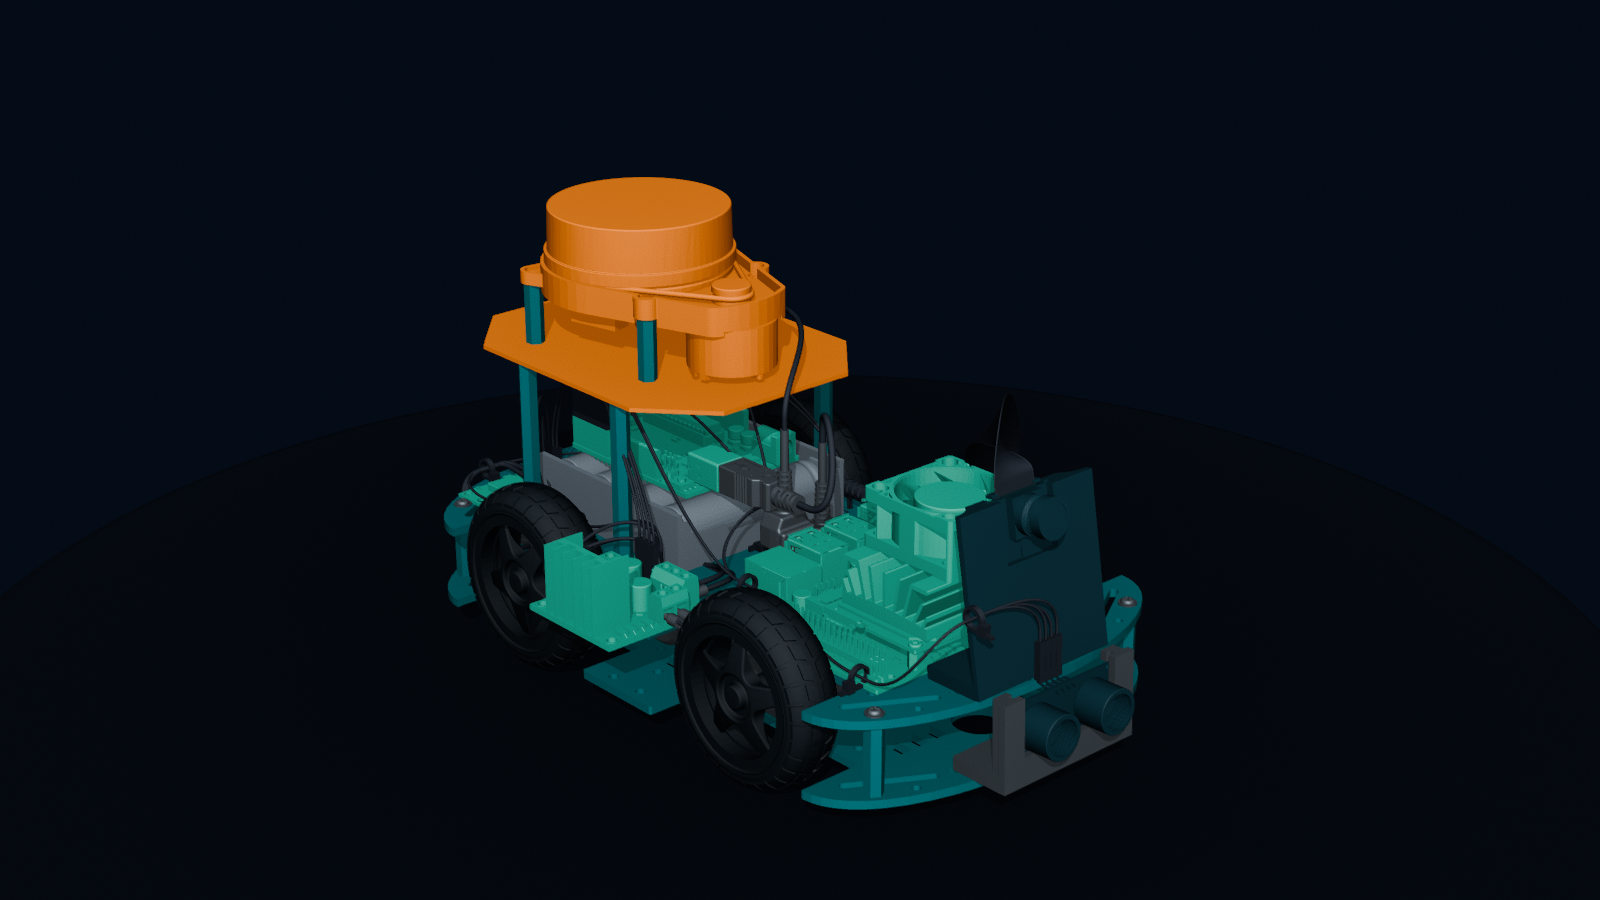
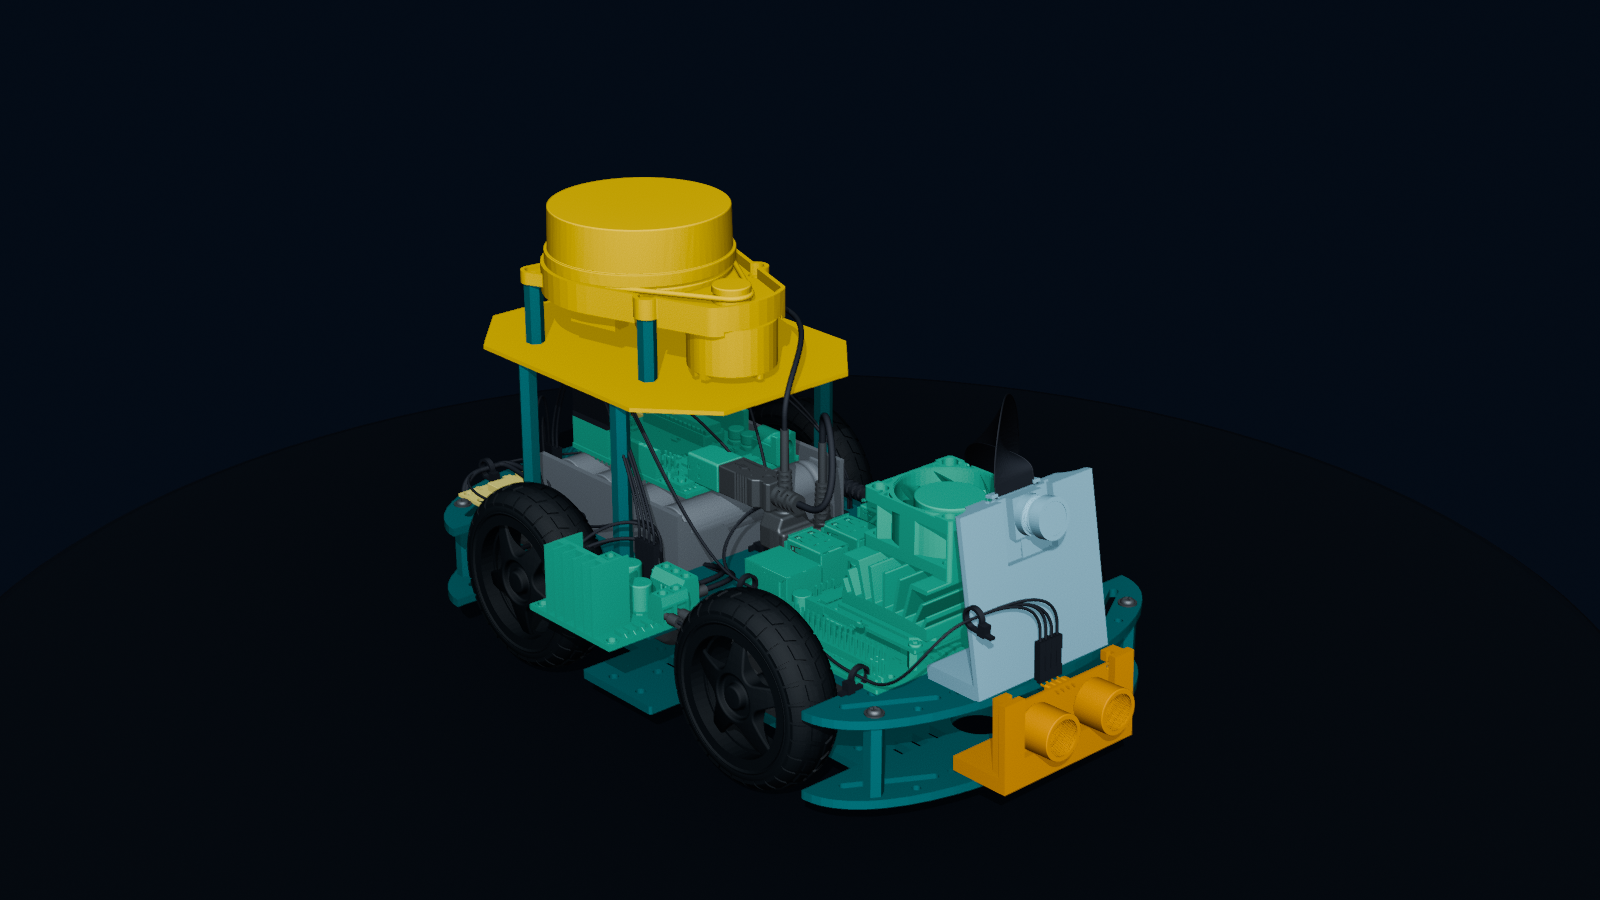
feat: add distinct sensor visual palette

Changed region(s): [[0.2812, 0.1867, 0.5312, 0.4667], [0.5625, 0.4978, 0.7188, 0.9022], [0.2812, 0.5289, 0.3438, 0.56]]

diff --git a/ros1_ws/tools/static_check.py b/ros1_ws/tools/static_check.py
@@ -180,6 +180,114 @@ def validate_canonical_defaults():
         fail("PONG must never open the motion gate")
 
 
+def validate_sensor_visual_palette():
+    expected = {
+        "lidar_link": (
+            "sensor_lidar_orange",
+            "0.902 0.624 0.000 1.0",
+            "Wildebeest/SensorLidarOrange",
+            "| Orange `#E69F00` | 2D LiDAR | `lidar_link` |",
+        ),
+        "camera_link": (
+            "sensor_camera_sky_blue",
+            "0.337 0.706 0.914 1.0",
+            "Wildebeest/SensorCameraSkyBlue",
+            "| Sky blue `#56B4E9` | IMX219 camera | `camera_link` (`camera_optical_frame` is axis-only) |",
+        ),
+        "imu_link": (
+            "sensor_imu_rose",
+            "0.800 0.475 0.655 1.0",
+            "Wildebeest/SensorImuRose",
+            "| Rose `#CC79A7` | MPU6050 IMU | `imu_link` |",
+        ),
+        "gps_link": (
+            "sensor_gnss_yellow",
+            "0.941 0.894 0.259 1.0",
+            "Wildebeest/SensorGnssYellow",
+            "| Yellow `#F0E442` | GNSS receiver | `gps_link` |",
+        ),
+        "ultrasonic_front_link": (
+            "sensor_ultrasonic_vermillion",
+            "0.835 0.369 0.000 1.0",
+            "Wildebeest/SensorUltrasonicVermillion",
+            "| Vermillion `#D55E00` | Front HC-SR04 ultrasonic sensor | `ultrasonic_front_link` |",
+        ),
+    }
+
+    materials_root = ET.parse(
+        str(SOURCE / "wildebeest_description/urdf/materials.xacro")
+    ).getroot()
+    material_colors = {}
+    for material in materials_root.findall("material"):
+        color = material.find("color")
+        if color is not None:
+            material_colors[material.attrib["name"]] = color.attrib.get("rgba")
+
+    sensor_colors = []
+    for material_name, rgba, _, _ in expected.values():
+        if material_colors.get(material_name) != rgba:
+            fail("{} must define sensor color {}".format(material_name, rgba))
+        sensor_colors.append(rgba)
+    if len(sensor_colors) != len(set(sensor_colors)):
+        fail("sensor identification colors must be unique")
+
+    urdf_root = ET.parse(
+        str(SOURCE / "wildebeest_description/urdf/wildebeest.urdf.xacro")
+    ).getroot()
+    urdf_links = {link.attrib.get("name"): link for link in urdf_root.findall("link")}
+    for link_name, (material_name, _, _, _) in expected.items():
+        link = urdf_links.get("${prefix}" + link_name)
+        material = None if link is None else link.find("visual/material")
+        if material is None or material.attrib.get("name") != material_name:
+            fail("{} must use {}".format(link_name, material_name))
+
+    gazebo_root = ET.parse(
+        str(SOURCE / "wildebeest_description/urdf/wildebeest.gazebo.xacro")
+    ).getroot()
+    gazebo_materials = {}
+    for gazebo in gazebo_root.iter("gazebo"):
+        reference = gazebo.attrib.get("reference")
+        material = gazebo.find("material")
+        if reference and material is not None:
+            gazebo_materials[reference] = (material.text or "").strip()
+    for link_name, (_, _, gazebo_material, _) in expected.items():
+        if gazebo_materials.get("${prefix}" + link_name) != gazebo_material:
+            fail("Gazebo {} must use {}".format(link_name, gazebo_material))
+
+    classic_materials = (
+        SOURCE
+        / "wildebeest_description/media/materials/scripts/wildebeest.material"
+    ).read_text(encoding="utf-8")
+    for link_name, (_, rgba, gazebo_material, _) in expected.items():
+        material_match = re.search(
+            r"material\s+{}\s*\{{(.*?)\n\}}".format(re.escape(gazebo_material)),
+            classic_materials,
+            re.DOTALL,
+        )
+        if material_match is None:
+            fail("Gazebo material script is missing {}".format(gazebo_material))
+        body = material_match.group(1)
+        if "ambient " + rgba not in body or "diffuse " + rgba not in body:
+            fail("Gazebo {} does not match the URDF RGBA".format(link_name))
+
+    description_manifest = ET.parse(
+        str(SOURCE / "wildebeest_description/package.xml")
+    ).getroot()
+    media_export = description_manifest.find("./export/gazebo_ros")
+    if media_export is None or media_export.attrib.get("gazebo_media_path") != "${prefix}":
+        fail("wildebeest_description must export its Gazebo media path")
+    description_cmake = (
+        SOURCE / "wildebeest_description/CMakeLists.txt"
+    ).read_text(encoding="utf-8")
+    if "install(DIRECTORY launch media rviz urdf" not in description_cmake:
+        fail("wildebeest_description must install its Gazebo material media")
+
+    workspace_readme = (WORKSPACE / "README.md").read_text(encoding="utf-8")
+    for link_name, (_, _, _, documented_row) in expected.items():
+        if documented_row not in workspace_readme:
+            fail("sensor legend is missing {}".format(link_name))
+
+
 def validate_wheel_joint_parity():
     urdf = (SOURCE / "wildebeest_description/urdf/wildebeest.urdf.xacro").read_text(
         encoding="utf-8"
@@ -250,6 +358,7 @@ def main():
     reference_count = validate_local_find_references(packages)
     validate_demo_map()
     validate_canonical_defaults()
+    validate_sensor_visual_palette()
     validate_wheel_joint_parity()
     python_count = validate_python_syntax()
     print(

diff --git a/ros2_ws/scripts/validate_workspace.py b/ros2_ws/scripts/validate_workspace.py
@@ -90,6 +90,82 @@ def validate_map(errors):
         errors.append('example map contains an out-of-range pixel')
 
 
+def validate_sensor_materials(errors):
+    """Keep sensor visuals distinct without decorating collision geometry."""
+
+    material_path = (
+        SOURCE / 'wildebeest_description' / 'urdf' / 'materials.xacro'
+    )
+    urdf_path = (
+        SOURCE / 'wildebeest_description' / 'urdf' / 'wildebeest.urdf.xacro'
+    )
+    expected = {
+        '${prefix}lidar_link': (
+            'wildebeest_sensor_lidar_orange', '0.902 0.624 0.000 1.0'
+        ),
+        '${prefix}imu_link': (
+            'wildebeest_sensor_imu_rose', '0.800 0.475 0.655 1.0'
+        ),
+        '${prefix}gps_link': (
+            'wildebeest_sensor_gnss_yellow', '0.941 0.894 0.259 1.0'
+        ),
+        '${prefix}camera_link': (
+            'wildebeest_sensor_camera_sky', '0.337 0.706 0.914 1.0'
+        ),
+        '${prefix}ultrasonic_front_link': (
+            'wildebeest_sensor_ultrasonic_vermillion',
+            '0.835 0.369 0.000 1.0',
+        ),
+    }
+
+    material_root = ET.parse(material_path).getroot()
+    definitions = {
+        element.get('name'): element.find('color').get('rgba')
+        for element in material_root.findall('material')
+        if element.get('name') and element.find('color') is not None
+    }
+    urdf_root = ET.parse(urdf_path).getroot()
+    links = {element.get('name'): element for element in urdf_root.findall('link')}
+    sensor_materials = {material for material, _ in expected.values()}
+
+    for link_name, (material_name, rgba) in expected.items():
+        link = links.get(link_name)
+        if link is None:
+            errors.append(f'missing sensor link {link_name!r}')
+            continue
+        visual = link.find('visual')
+        material = visual.find('material') if visual is not None else None
+        actual_name = material.get('name') if material is not None else None
+        if actual_name != material_name:
+            errors.append(
+                f'{link_name} visual must use {material_name}, got {actual_name!r}'
+            )
+        if definitions.get(material_name) != rgba:
+            errors.append(f'{material_name} must use RGBA {rgba}')
+        if any(collision.find('.//material') is not None
+               for collision in link.findall('collision')):
+            errors.append(f'{link_name} collision geometry must remain uncolored')
+
+    if len(sensor_materials) != len(expected):
+        errors.append('every sensor must use a unique named material')
+    sensor_colors = {rgba for _, rgba in expected.values()}
+    body_colors = {
+        rgba for name, rgba in definitions.items() if name not in sensor_materials
+    }
+    if len(sensor_colors) != len(expected):
+        errors.append('every sensor must use a visually unique color')
+    if sensor_colors & body_colors:
+        errors.append('sensor colors must be distinct from chassis/electronics')
+    for link_name, link in links.items():
+        if link_name in expected:
+            continue
+        for material in link.findall('./visual/material'):
+            if material.get('name') in sensor_materials:
+                errors.append(
+                    f'sensor-only material {material.get("name")} reused by {link_name}'
+                )
+
+
 def validate_protocol(errors):
     """Exercise the canonical codec and commissioning command limits."""
 
@@ -234,6 +310,7 @@ def main():
     validate_manifests(errors)
     validate_yaml(errors)
     validate_map(errors)
+    validate_sensor_materials(errors)
     validate_protocol(errors)
     validate_robot_contract(errors)
     if errors:

diff --git a/tools/render_cad.py b/tools/render_cad.py
@@ -14,7 +14,6 @@ must not be used as a source of calibrated transforms.
 from __future__ import annotations
 
 import argparse
-import math
 import sys
 from pathlib import Path
 
@@ -29,7 +28,7 @@ MM_TO_M = 0.001
 
 
 def arguments() -> argparse.Namespace:
-    argv = sys.argv[sys.argv.index("--") + 1 :] if "--" in sys.argv else []
+    argv = sys.argv[sys.argv.index("--") + 1:] if "--" in sys.argv else []
     parser = argparse.ArgumentParser()
     parser.add_argument("--output", default="assets/cad-render.png")
     parser.add_argument("--samples", type=int, default=64)
@@ -51,10 +50,16 @@ def choose_material(filename: str, palette: dict[str, object]):
     if any(token in name for token in ("bottom_cover", "top_cover", "support_")):
         return palette["body"]
     if any(token in name for token in ("lidar", "radar")):
-        return palette["sensor"]
-    if any(token in name for token in ("camera", "imx219", "ultrasonic")):
-        return palette["optic"]
-    if any(token in name for token in ("jetson", "arduino", "l298n", "gps", "mpu 6050", "pcb")):
+        return palette["sensor_lidar"]
+    if any(token in name for token in ("mpu 6050", "imu")):
+        return palette["sensor_imu"]
+    if any(token in name for token in ("gps", "gnss", "neo-6", "neo 6")):
+        return palette["sensor_gnss"]
+    if any(token in name for token in ("camera", "imx219")):
+        return palette["sensor_camera"]
+    if any(token in name for token in ("ultrasonic", "ultrasound", "hc-sr04", "hc sr04")):
+        return palette["sensor_ultrasonic"]
+    if any(token in name for token in ("jetson", "arduino", "l298n", "pcb")):
         return palette["electronics"]
     if any(token in name for token in ("battery", "18650")):
         return palette["battery"]
@@ -81,8 +86,13 @@ def main() -> None:
     palette = {
         "body": material("Wildebeest teal", (0.015, 0.34, 0.38, 1.0), metallic=0.45, roughness=0.24),
         "rubber": material("Tire rubber", (0.012, 0.018, 0.024, 1.0), roughness=0.72),
-        "sensor": material("LiDAR amber", (1.0, 0.27, 0.035, 1.0), metallic=0.12, roughness=0.25),
-        "optic": material("Optics", (0.018, 0.055, 0.075, 1.0), metallic=0.28, roughness=0.18),
+        # Match the semantic ROS 1/ROS 2 sensor palette.  These colors are
+        # identification aids only; they never encode live health or state.
+        "sensor_lidar": material("Sensor - LiDAR orange", (0.902, 0.624, 0.000, 1.0), metallic=0.12, roughness=0.25),
+        "sensor_imu": material("Sensor - IMU rose", (0.800, 0.475, 0.655, 1.0), metallic=0.08, roughness=0.34),
+        "sensor_gnss": material("Sensor - GNSS yellow", (0.941, 0.894, 0.259, 1.0), metallic=0.08, roughness=0.34),
+        "sensor_camera": material("Sensor - camera sky", (0.337, 0.706, 0.914, 1.0), metallic=0.18, roughness=0.22),
+        "sensor_ultrasonic": material("Sensor - ultrasonic vermillion", (0.835, 0.369, 0.000, 1.0), metallic=0.10, roughness=0.28),
         "electronics": material("Electronics", (0.05, 0.48, 0.34, 1.0), metallic=0.08, roughness=0.42),
         "battery": material("Battery", (0.28, 0.34, 0.40, 1.0), metallic=0.35, roughness=0.3),
         "cable": material("Cables", (0.025, 0.032, 0.045, 1.0), roughness=0.65),

diff --git a/ros1_ws/README.md b/ros1_ws/README.md
@@ -108,6 +108,20 @@ odometry yaw and requires deliberate field validation.
 
 Frames are `map -> odom -> base_link`, with `lidar_link`, `imu_link`, `gps_link`, `camera_link`/`camera_optical_frame`, `ultrasonic_front_link`, four wheel links, and a convenience `base_footprint` below `base_link`.
 
+### Sensor visualization legend
+
+The ROS 1 URDF and Gazebo Classic model use the same high-contrast palette so individual sensor housings remain easy to find against the blue/teal chassis:
+
+| Color | Sensor | Link / frame |
+| --- | --- | --- |
+| Orange `#E69F00` | 2D LiDAR | `lidar_link` |
+| Rose `#CC79A7` | MPU6050 IMU | `imu_link` |
+| Yellow `#F0E442` | GNSS receiver | `gps_link` |
+| Sky blue `#56B4E9` | IMX219 camera | `camera_link` (`camera_optical_frame` is axis-only) |
+| Vermillion `#D55E00` | Front HC-SR04 ultrasonic sensor | `ultrasonic_front_link` |
+
+These colors are visual identifiers only. They do not indicate readiness, diagnostics, range validity, or safety state; use topics, frame names, and `/diagnostics` as the authoritative runtime sources.
+
 For a legacy consumer that requires `/odom`, set `odom_topic:=/odom` when including `wildebeest_base/launch/base.launch`. Do not expose both names as independently published odometry, and keep `publish_odom_tf:=false` whenever the EKF owns the transform.
 
 Velocity producers publish to `/cmd_vel_nav`, `/cmd_vel/remote`, `/cmd_vel_keyboard`, or `/cmd_vel_joy`; `twist_mux` is the only normal owner of `/cmd_vel`. Priority is navigation < remote < keyboard < joystick, and remote/local teleoperation expires after 0.35 s. The joystick requires a held enable button. Any MCU hard/software-stop flag latches a host stop. After an explicit clear, the bridge waits for clean ODOM stop flags, discards cached velocity again, and requires a fresh command. A hard-wired, normally closed motor-power emergency stop remains required—software topics and the Arduino watchdog are additional layers, not substitutes.

diff --git a/ros1_ws/src/wildebeest_simulation/README.md b/ros1_ws/src/wildebeest_simulation/README.md
@@ -4,4 +4,6 @@ Run `roslaunch wildebeest_simulation demo.launch` after building and sourcing th
 
 The model has four independently named wheel links, joints, and transmissions. Noetic's established `diff_drive_controller` multi-wheel mode commands both front/rear joints on each side and averages their feedback, preserving the hardware protocol's single left/right side velocities. Gazebo uses reduced lateral wheel friction to permit skid-steer scrub. CAD geometry (0.033622 m radius, 0.025065 m width, 0.121843 m track, 0.117150 m wheelbase, 0.257 x 0.150 x 0.031 m shell) is nominal; tyre friction, effective track, mass, inertia, and controller gains require physical calibration.
 
+Sensor housings use the same identification colors in Gazebo and RViz: orange LiDAR, rose IMU, yellow GNSS, sky-blue camera, and vermillion front ultrasonic. See the workspace [sensor visualization legend](../../README.md#sensor-visualization-legend). Colors identify model components only and never represent live health or safety state.
+
 Gazebo Classic and ROS Noetic are both legacy software. The simulation is an integration and learning environment, not evidence that the physical robot is safe or calibrated. Optional GPS simulation requires `hector_gazebo_plugins` and `simulate_gps:=true` on `gazebo.launch`.

diff --git a/README.md b/README.md
@@ -108,6 +108,18 @@ flowchart LR
 
 All command sources pass through arbitration. The base bridge will not move until it receives the exact firmware boot identity, an E-stop release cannot replay an old command, and both hardware and simulation paths stop on stale velocity input. See the [interface contract](docs/software/interfaces.md) and [serial protocol](docs/reference/serial-protocol.md).
 
+### Sensor identification palette
+
+The same high-contrast palette is applied to sensor visuals in ROS 1, ROS 2, RViz, Gazebo, and the CAD showcase. Colors identify hardware only; they never indicate live health or status.
+
+| Sensor | Visual color | Hex |
+|---|---|---|
+| 2D LiDAR | Orange | `#E69F00` |
+| MPU6050 IMU | Rose | `#CC79A7` |
+| GNSS receiver | Yellow | `#F0E442` |
+| IMX219 camera | Sky blue | `#56B4E9` |
+| Front ultrasonic | Vermillion | `#D55E00` |
+
 ## Firmware, dashboard, and documentation
 
 Build the Arduino Uno firmware with PlatformIO:

diff --git a/ros2_ws/src/wildebeest_description/README.md b/ros2_ws/src/wildebeest_description/README.md
@@ -7,6 +7,18 @@ Jetson and Arduino representations, plus `lidar_link`, `imu_link`,
 `gps_link`, `camera_link`, `camera_optical_frame`, and
 `ultrasonic_front_link`.
 
+Sensor housings use a high-contrast, color-blind-conscious visual key that is
+shared by RViz and Gazebo. These colors are visualization aids only; collision
+geometry remains uncolored and unchanged.
+
+| Sensor | Link | Visual color |
+| --- | --- | --- |
+| 2D LiDAR | `lidar_link` | Orange (`#E69F00`) |
+| MPU6050 IMU | `imu_link` | Reddish purple (`#CC79A7`) |
+| NEO-6M GNSS | `gps_link` | Yellow (`#F0E442`) |
+| IMX219 camera | `camera_link` | Sky blue (`#56B4E9`) |
+| HC-SR04 front range | `ultrasonic_front_link` | Vermillion (`#D55E00`) |
+
 Preview it with:
 
 ```bash
